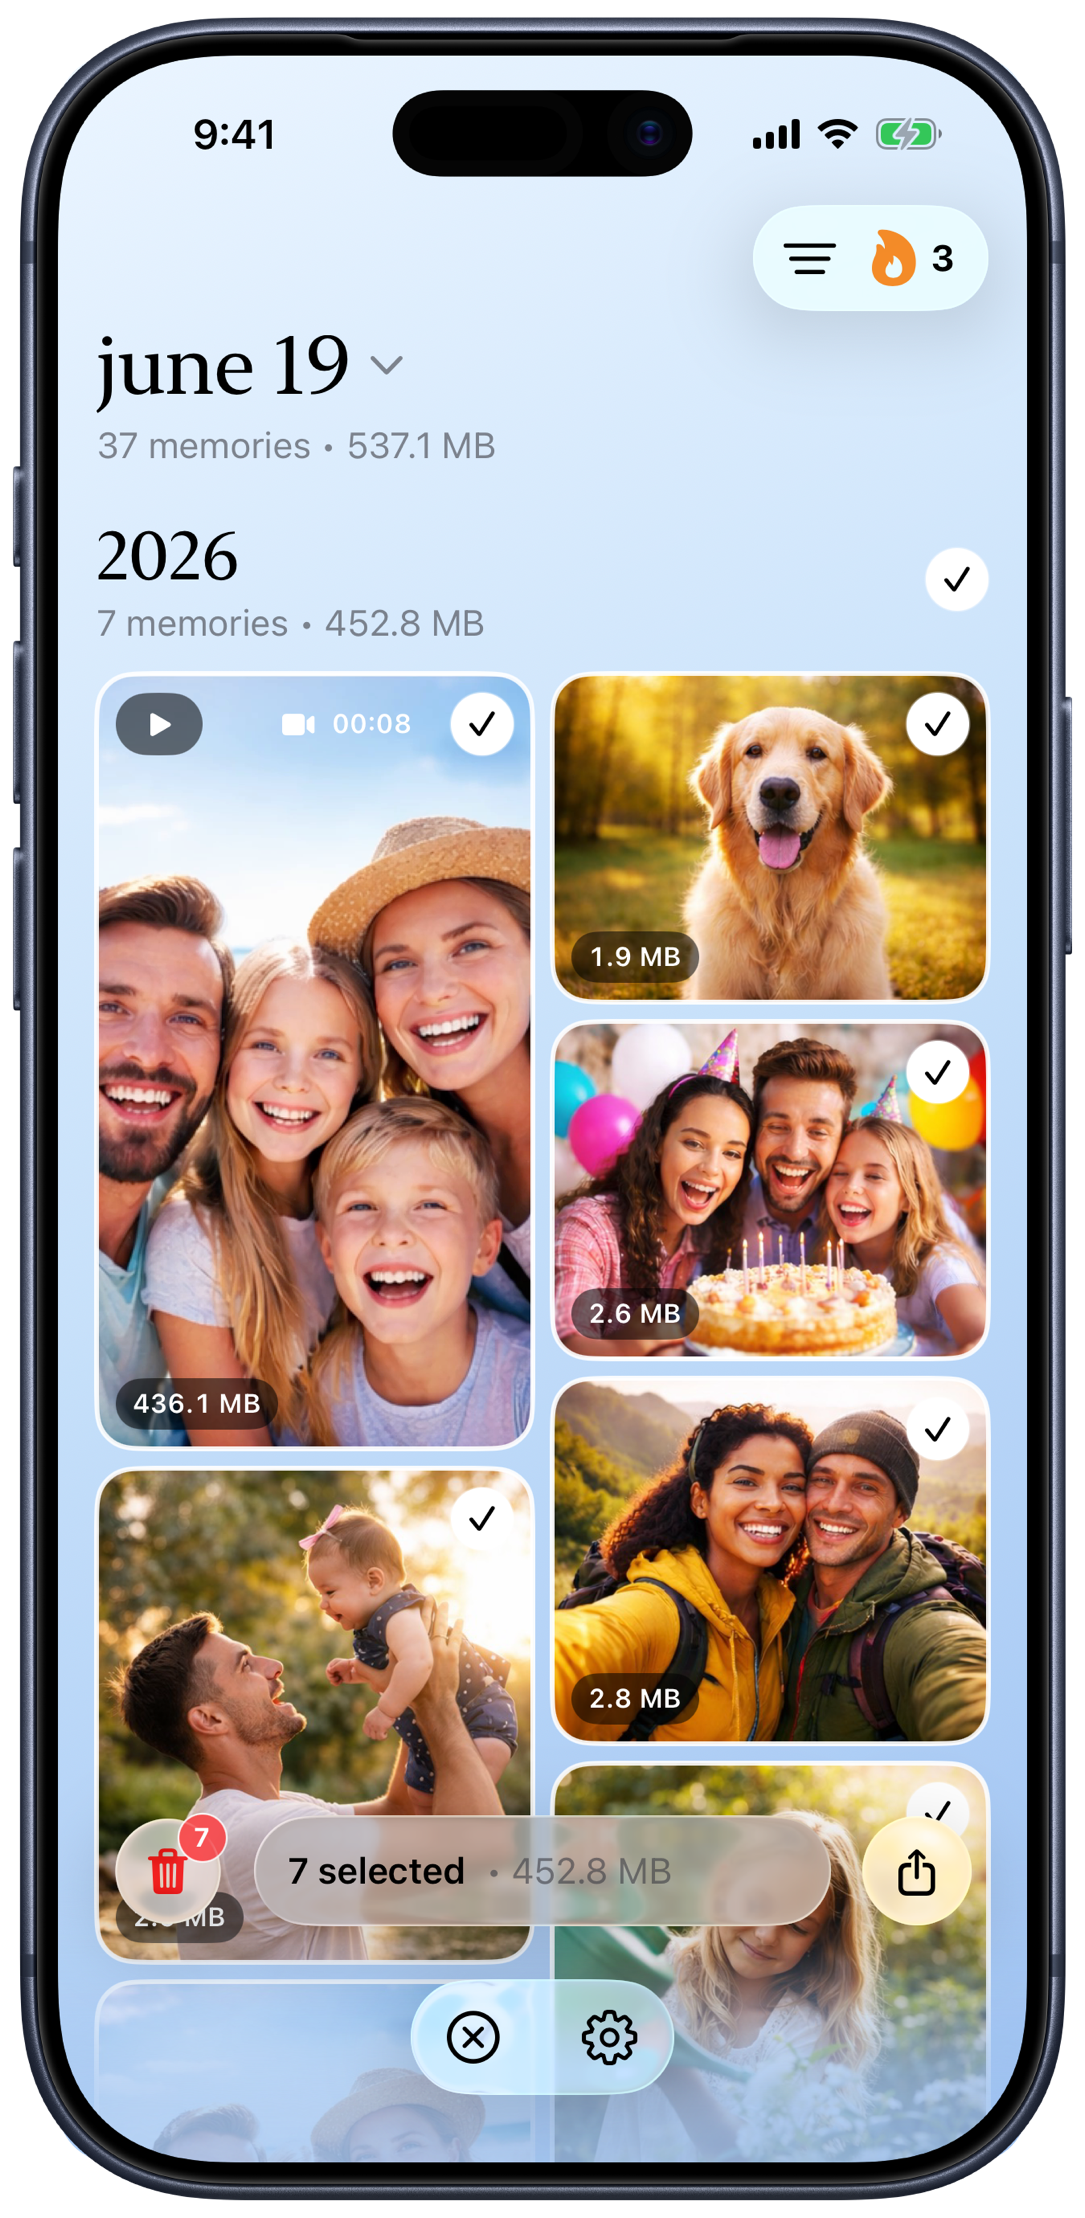
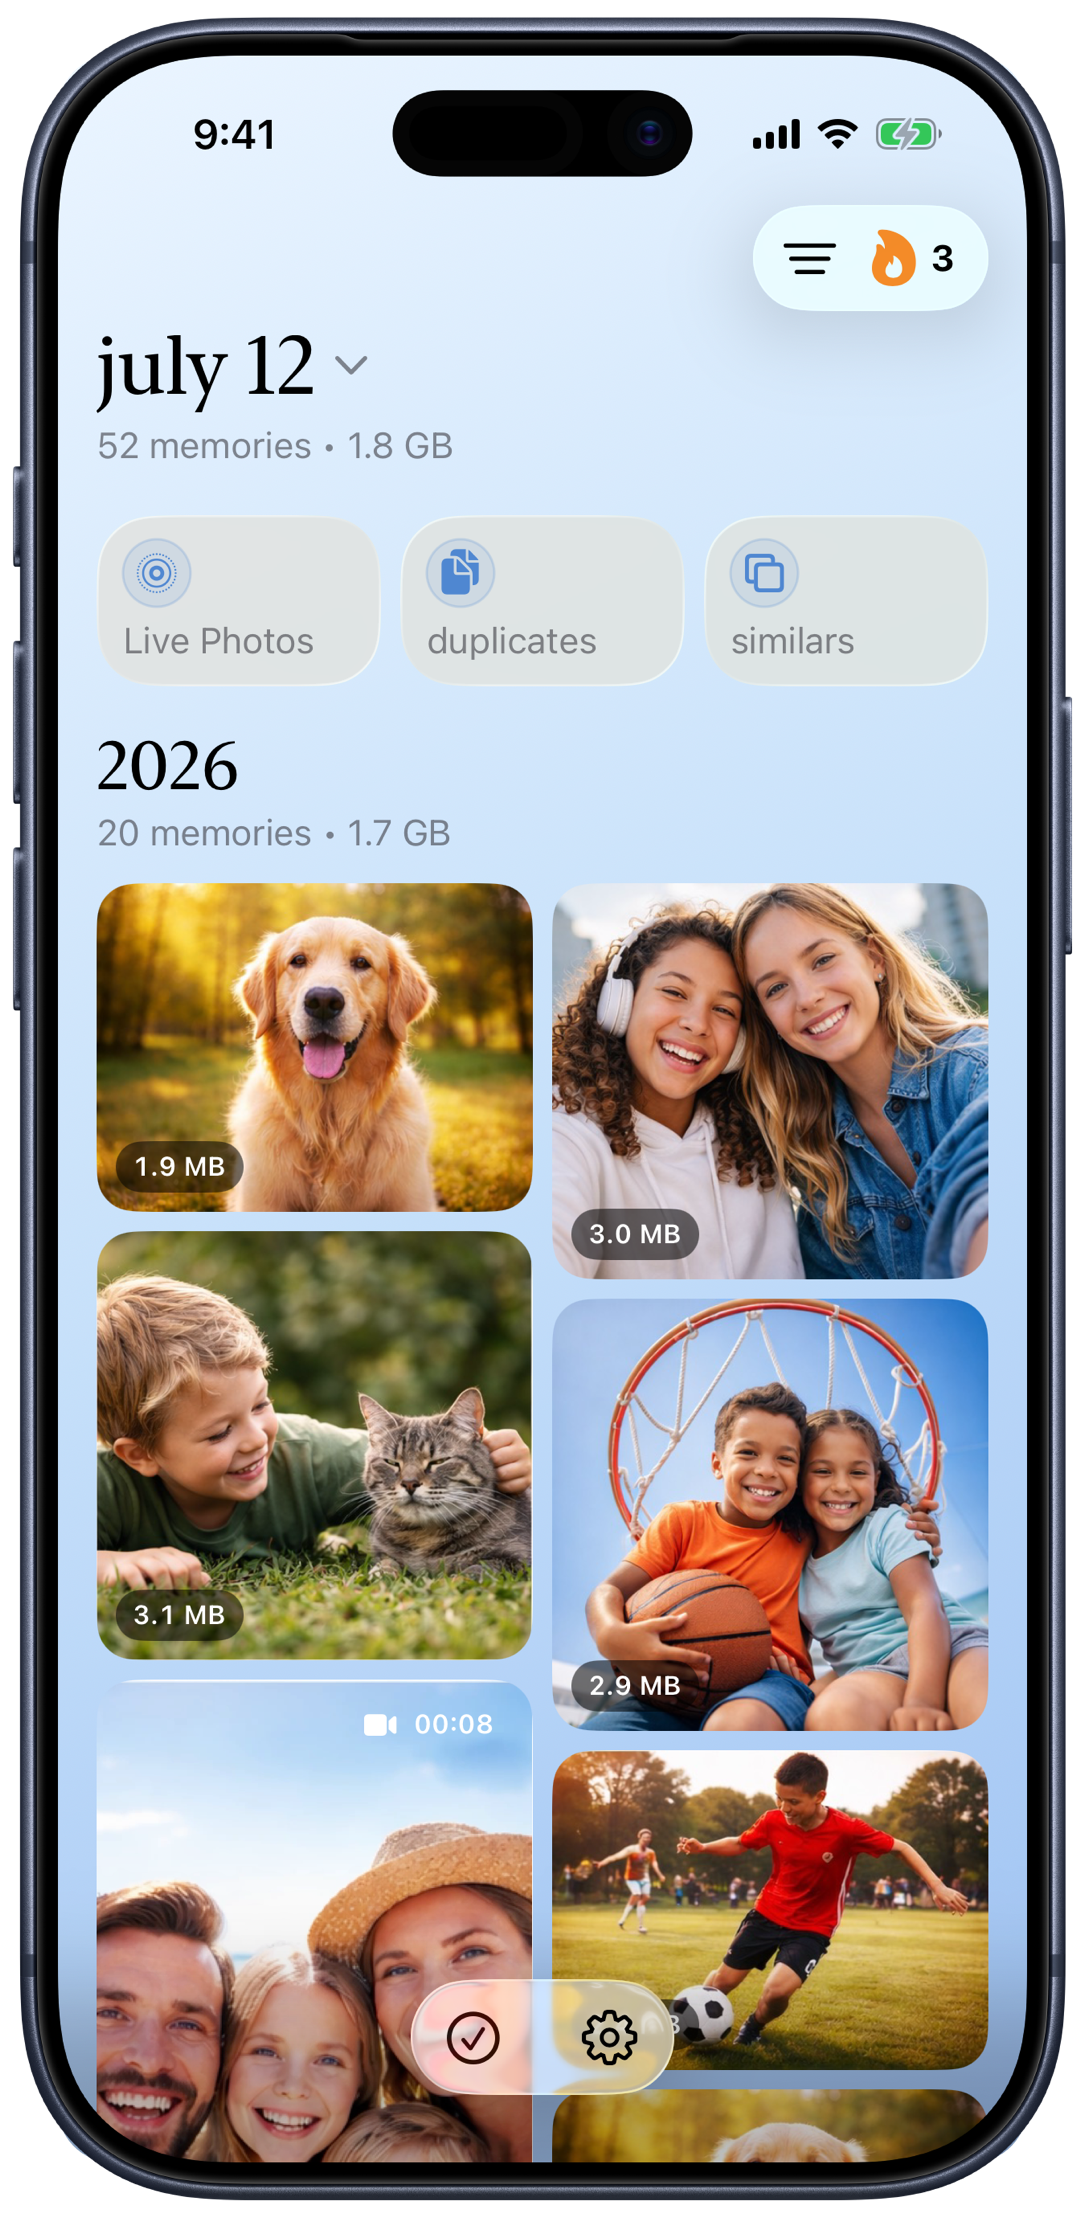
Update website for v1.17.0

diff --git a/_includes/landing-content.html b/_includes/landing-content.html
@@ -42,6 +42,9 @@
       <div class="feature-visual">
         <div class="feature-visual-viewport" data-feature-visual-viewport>
           <figure class="feature-slide is-active" data-feature-visual-slide>
+            <img class="device-frame device-frame--feature" src="{{ '/assets/images/devices/feature-similar-photos.png' | relative_url }}" alt="Swipe through similar photos and choose which shots to keep or delete" width="405" height="828">
+          </figure>
+          <figure class="feature-slide" data-feature-visual-slide>
             <img class="device-frame device-frame--feature" src="{{ '/assets/images/devices/feature-live-photos.png' | relative_url }}" alt="Convert Live Photos to stills to save storage" width="405" height="828">
           </figure>
           <figure class="feature-slide" data-feature-visual-slide>
@@ -69,7 +72,8 @@
           </svg>
         </button>
         <div class="feature-dots" role="tablist" aria-label="Features">
-          <button type="button" class="feature-dot is-active" data-feature-dot role="tab" aria-selected="true" aria-label="Convert Live Photos"></button>
+          <button type="button" class="feature-dot is-active" data-feature-dot role="tab" aria-selected="true" aria-label="Clean up similar photos"></button>
+          <button type="button" class="feature-dot" data-feature-dot role="tab" aria-selected="false" aria-label="Convert Live Photos"></button>
           <button type="button" class="feature-dot" data-feature-dot role="tab" aria-selected="false" aria-label="One day at a time"></button>
           <button type="button" class="feature-dot" data-feature-dot role="tab" aria-selected="false" aria-label="Delete duplicates"></button>
           <button type="button" class="feature-dot" data-feature-dot role="tab" aria-selected="false" aria-label="Streak achievements"></button>
@@ -86,6 +90,11 @@
       <div class="feature-copy">
         <div class="feature-copy-viewport" data-feature-copy-viewport>
           <article class="feature-panel is-active" data-feature-copy-slide>
+            <p class="feature-kicker">Smart cleanup</p>
+            <h3>Clean up similar photos</h3>
+            <p>Swipe through groups of near-matches, choose which shots to keep or delete, and review your choices before removing anything.</p>
+          </article>
+          <article class="feature-panel" data-feature-copy-slide>
             <p class="feature-kicker">Storage saver</p>
             <h3>Convert Live Photos</h3>
             <p>Turn Live Photos into stills to reclaim space without losing the shot you care about.</p>
@@ -141,6 +150,10 @@
           <li>
             <span class="premium-check" aria-hidden="true">✓</span>
             <span><strong>Delete unlimited duplicates</strong> — find and clear exact duplicates without hitting limits.</span>
+          </li>
+          <li>
+            <span class="premium-check" aria-hidden="true">✓</span>
+            <span><strong>Clean up unlimited similar photos</strong> — compare near-matches and keep only the shots you want.</span>
           </li>
           <li>
             <span class="premium-check" aria-hidden="true">✓</span>

diff --git a/scripts/prepare-assets.swift b/scripts/prepare-assets.swift
@@ -26,7 +26,7 @@ func checkoutURL(environmentKey: String, siblingName: String) -> URL {
 let thisdayRoot = checkoutURL(environmentKey: "THISDAY_APP_ROOT", siblingName: "thisday")
 let slidesToolRoot = checkoutURL(environmentKey: "APP_STORE_SLIDES_TOOL_ROOT", siblingName: "app-store-slides-tool")
 
-let screenshotVersion = ProcessInfo.processInfo.environment["THISDAY_SCREENSHOT_VERSION"] ?? "v1.16.0"
+let screenshotVersion = ProcessInfo.processInfo.environment["THISDAY_SCREENSHOT_VERSION"] ?? "v1.17.0"
 let screenshotDevice = ProcessInfo.processInfo.environment["THISDAY_SCREENSHOT_DEVICE"] ?? "iphone"
 let screenshotLocale = ProcessInfo.processInfo.environment["THISDAY_SCREENSHOT_LOCALE"] ?? "en_US"
 let framedOutputWidth = CGFloat(
@@ -238,15 +238,16 @@ do {
     let framed: [(String, String)] = [
         ("01-gallery-multiselect.png", "hero-gallery.png"),
         ("01-gallery-multiselect.png", "feature-daily-review.png"),
-        ("02-live-photos-convert.png", "feature-live-photos.png"),
-        ("03-duplicates-review.png", "feature-duplicates.png"),
-        ("04-achievements.png", "feature-achievements.png"),
-        ("04-achievements.png", "feature-reminders.png"),
-        ("05-achieve-milestones.png", "feature-milestones.png"),
+        ("02-similar-photos-review.png", "feature-similar-photos.png"),
+        ("03-live-photos-convert.png", "feature-live-photos.png"),
+        ("04-duplicates-review.png", "feature-duplicates.png"),
+        ("05-achievements.png", "feature-achievements.png"),
+        ("05-achievements.png", "feature-reminders.png"),
+        ("07-achieve-milestones.png", "feature-milestones.png"),
         ("06-relive-memories.png", "feature-memories.png"),
         ("01-gallery-multiselect.png", "how-open-memories.png"),
-        ("03-duplicates-review.png", "how-review-delete.png"),
-        ("04-achievements.png", "how-daily-habit.png")
+        ("04-duplicates-review.png", "how-review-delete.png"),
+        ("05-achievements.png", "how-daily-habit.png")
     ]
 
     for (raw, output) in framed {

diff --git a/README.md b/README.md
@@ -33,7 +33,7 @@ The server auto-rebuilds when you save files. Stop it with `Ctrl+C` in the termi
 
 ### Regenerate screenshots
 
-Framed iPhone 17 Pro screenshots are generated from the This Day app repo. By default, the script uses `build/AppStore/v1.16.0/iphone/en_US/raw` and emits 1085px-wide site assets:
+Framed iPhone 17 Pro screenshots are generated from the This Day app repo. By default, the script uses `build/AppStore/v1.17.0/iphone/en_US/raw` and emits 1085px-wide site assets:
 
 ```bash
 ./scripts/prepare-assets.swift
@@ -44,7 +44,7 @@ The script looks for sibling checkouts at `../thisday` and `../app-store-slides-
 ```bash
 THISDAY_APP_ROOT=/path/to/thisday \
 APP_STORE_SLIDES_TOOL_ROOT=/path/to/app-store-slides-tool \
-THISDAY_SCREENSHOT_VERSION=v1.16.0 \
+THISDAY_SCREENSHOT_VERSION=v1.17.0 \
 THISDAY_SCREENSHOT_DEVICE=iphone \
 THISDAY_SCREENSHOT_LOCALE=en_US \
 ./scripts/prepare-assets.swift

diff --git a/index.md b/index.md
@@ -1,7 +1,7 @@
 ---
 layout: landing
 title: This Day — Daily Photo Cleanup for iPhone
-description: Review photos from this day in past years and free up iPhone storage in minutes. Delete duplicates, convert Live Photos, add memories to albums, and build a cleanup streak.
+description: Review photos from this day in past years and free up iPhone storage in minutes. Clean up similar photos, delete duplicates, convert Live Photos, and build a cleanup streak.
 permalink: /
 ---
 
